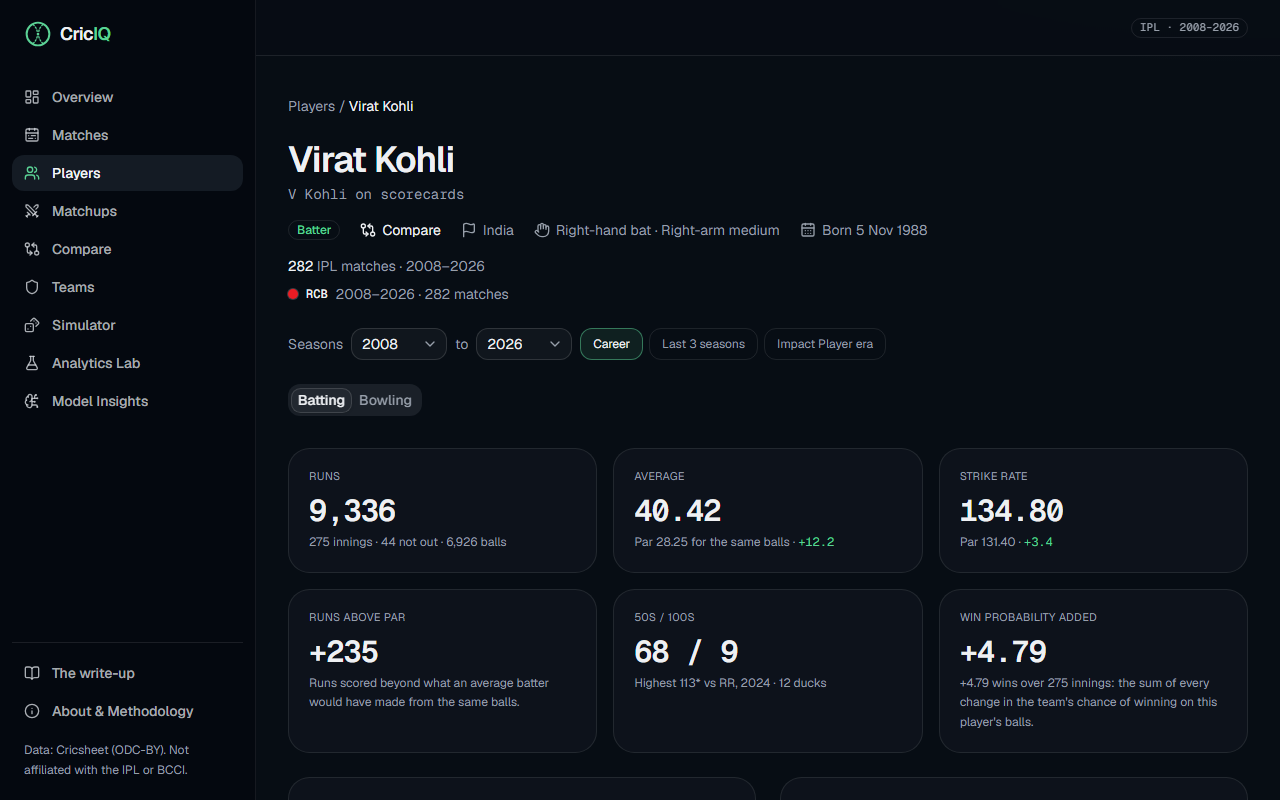
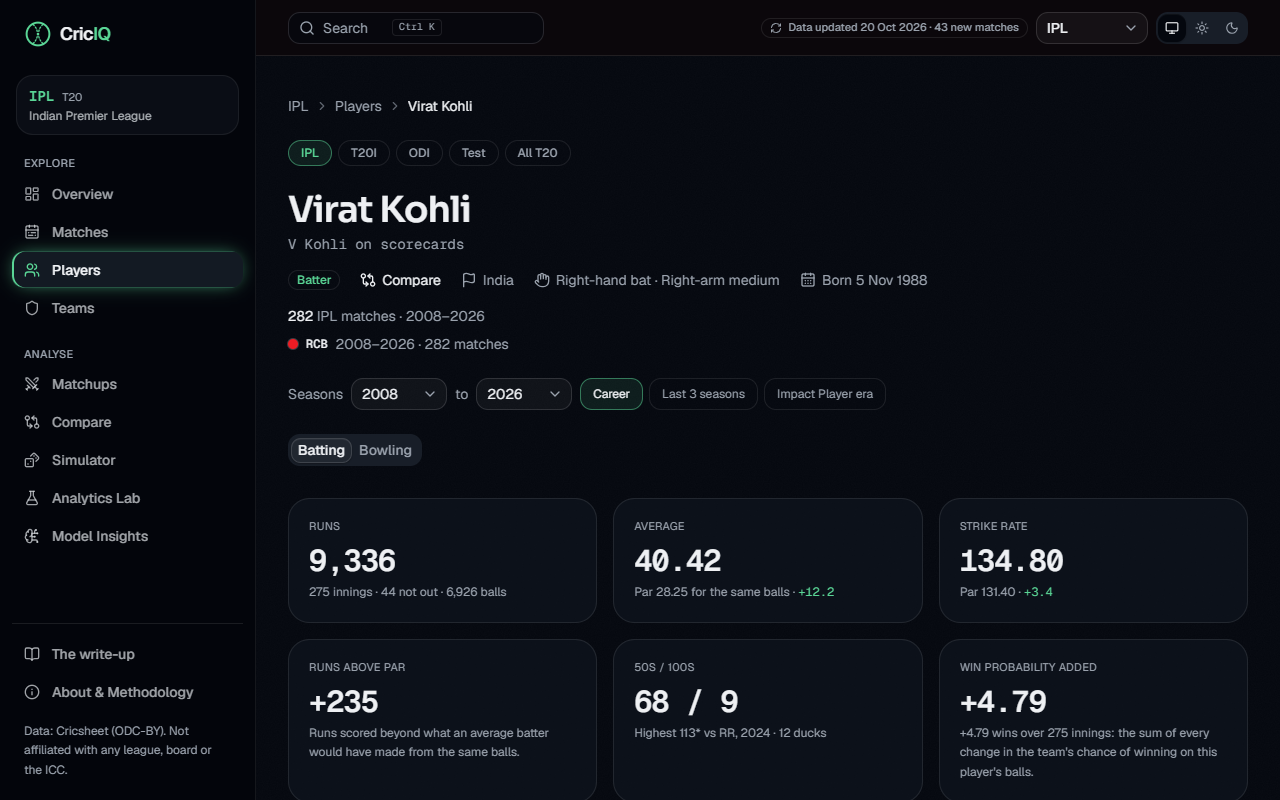
docs: update readme and changelog for the v4 experience
New screenshots of the scroll-story home page, a competition home, the
replay, the Player Lab, the simulator and Model Insights in the
redesigned interface. The README points at the v3 branch to run it and
explains the editions; the changelog covers the home page story, the
motion across the site and the work to keep it light.

diff --git a/CHANGELOG.md b/CHANGELOG.md
@@ -5,6 +5,35 @@ All notable changes to this project are documented here. The format follows [Kee
 ## [Unreleased]
 
 ### Added
+- **The home page's scroll story, and motion across the site.**
+  - The home page tells what CricIQ does as you scroll, in five chapters over a canvas of about
+    3,000 particles (900 on phones): a cricket ball with its seam, which breaks into a cloud as
+    the real number of deliveries counts up (4,570,681 in this build), becomes the 2019 IPL
+    final's win-probability ribbon with Pollard's six and Malinga's final over marked, fans out
+    into simulated outcomes, and dissolves into the competition picker. GSAP ScrollTrigger pins
+    the chapters, SplitText reveals their headlines and Lenis smooths the scrolling, on this page
+    only. Visitors who prefer reduced motion get the same story as a still page, switched by CSS
+    before the first paint. `components/landing/`, `lib/canvas-particles.ts`, `lib/landing.ts`.
+  - Pages rise in on a spring curve when reached by a link; the sidebar's current-page pill
+    slides to the item under the pointer or keyboard focus; the top bar turns more solid and
+    gains a lit edge as the page scrolls (a scroll-driven animation, no script); the search
+    palette springs open and the competition switcher's cards arrive in turn.
+  - Competition homes: the headline numbers count up as they come into view, sections and cards
+    arrive one after another, the hero breathes with a slow glow and match cards light up under
+    the pointer. `CountUp`, `StaggerGrid`, `Reveal` and `lib/use-reveal.ts`.
+  - The match replay reads like a broadcast: the score's digits flip, the win-probability bar
+    glides on a spring and pulses faster as the pressure on the next ball rises, each new ball
+    slides into the feed with wickets, sixes and fours flashing, and wickets ring on the
+    timeline as the replay reaches them.
+  - Player Lab ratings grow along their 0–100 tracks, a new matchup springs in with its
+    next-ball odds counting up, two players to compare arrive from either side, league table
+    rows arrive in turn and the league trends draw themselves as they come into view.
+  - Themes refined: the dark "floodlit night" has a fine film grain and the light "day match"
+    warmer shadows; page and section headings arrive word by word; loading skeletons shimmer in
+    a wave; the 404 page has a ball knock the bails off (canvas, replayable).
+  - Nothing a visitor already sees animates when a page first loads (only content that arrives
+    later or scrolls into view does), and every animation calms to a fade or stops when the
+    device asks for reduced motion.
 - **V3-4: the match replay.**
   - Over by over: the Manhattan chart has a panel of its own, under the scoreboard.
   - The scoreboard (limited overs and Tests) has a header with the innings and the ball, both
@@ -57,6 +86,14 @@ All notable changes to this project are documented here. The format follows [Kee
 
 ### Changed
 - CI runs on the `v3` branch too.
+- Animation stays light. Most of it is CSS; GSAP and Lenis load only on the home page after it
+  has painted, and set the story up a chapter at a time; Motion loads only with the match replay,
+  so other pages start with about as much JavaScript as before. The particles draw their many
+  small points in batched fills rather than an image each (desktop frames from about 36 ms to
+  12 ms on a CPU slowed four times), and the Player Lab's charts load once the page is idle.
+  Lighthouse on mobile stays within a few points of the earlier build on every key page, with
+  accessibility, best practices and SEO at 100.
+- The README shows the redesigned interface: new screenshots, and `git clone -b v3` to run it.
 - The README is short: what CricIQ is, how to run it in three commands without extra tools, a
   troubleshooting table, headline results and how it is built. The detailed results moved to
   `docs/models.md`.

diff --git a/README.md b/README.md
@@ -13,7 +13,7 @@
 
 **[Run it on your machine](#run-it-on-your-machine)** · [Live demo (IPL edition)](https://criciq-eight.vercel.app) · [Write-up](https://criciq-eight.vercel.app/writeup) · [Models and results](docs/models.md)
 
-<img src="docs/images/demo.gif" alt="A tour of CricIQ: the last over of the 2019 IPL final replayed ball by ball with win probability, then the Player Lab, Matchups, Compare, Teams, the Match Simulator, the Analytics Lab and Model Insights" width="880">
+<img src="docs/images/landing.png" alt="CricIQ's home page: the headline 'Decode the game. Predict the next move.' beside a cricket ball drawn in particles, with the deliveries, matches and competitions in the data" width="880">
 
 </div>
 
@@ -25,8 +25,10 @@ matches and 4.6 million balls. Replay any match with a live, explained win proba
 every series and tournament, and explore players, rivalries, teams and simulations. Each kind of
 cricket has models trained on its own matches only.
 
-> **Two editions.** The [live demo](https://criciq-eight.vercel.app) is v1.0.0, the IPL edition
-> (branch `main`). **v2.0.0, every competition, is on the `v2` branch and runs on your machine.**
+> **Editions.** The [live demo](https://criciq-eight.vercel.app) is v1.0.0, the IPL edition
+> (branch `main`). **This branch, `v3`, has every competition with the redesigned, animated
+> interface, and runs on your machine.** v2.0.0 (branch `v2`) has the same competitions with the
+> earlier interface.
 
 ## Run it on your machine
 
@@ -44,7 +46,7 @@ cricket has models trained on its own matches only.
 ### 2. Download CricIQ and start it
 
 ```bash
-git clone -b v2 https://github.com/mehulp007/CricIQ.git
+git clone -b v3 https://github.com/mehulp007/CricIQ.git
 cd CricIQ
 uv run python scripts/v2_up.py
 ```
@@ -72,7 +74,7 @@ It starts in seconds, using the data already built. To add matches played since 
 | `npm.ps1 cannot be loaded because running scripts is disabled` | Run `npm.cmd install -g pnpm` instead |
 | `pnpm is not installed` or `Node.js is not installed` | Install it (step 1), then open a new terminal |
 | `port 3000` or `port 8000 is already in use` | CricIQ is already running in another window: use that one, or close it first |
-| `scripts/v2_up.py` does not exist | You have the IPL edition (`main`): run `git checkout v2` inside the folder |
+| `scripts/v2_up.py` does not exist | You have the IPL edition (`main`): run `git checkout v3` inside the folder |
 | The page does not open | Wait for `CricIQ is up`, then use http://localhost:3000 |
 
 ## What you can do
@@ -127,9 +129,11 @@ Full results, what failed and why: [docs/models.md](docs/models.md).
 
 ## Screenshots
 
-| Match replay | Player Lab |
+| The home page's story | A competition's home |
 |---|---|
-| ![Match Center with win probability during the 2019 final](docs/images/replay.png) | ![Virat Kohli's profile against par](docs/images/player.png) |
+| ![The 2019 IPL final's win probability drawn as a ribbon of particles, with Pollard's six and Malinga's final over marked](docs/images/ribbon.png) | ![The IPL home page: its headline, the way into a replay, players and matchups, and its numbers](docs/images/home.png) |
+| **Match replay** | **Player Lab** |
+| ![The 2019 final with Chennai Super Kings needing 9 from 6 balls: the scoreboard, a 78% win chance and very high pressure on the next ball](docs/images/replay.png) | ![Virat Kohli's IPL career against par](docs/images/player.png) |
 | **Match Simulator** | **Model Insights** |
 | ![Mumbai Indians against Chennai Super Kings simulated 10,000 times](docs/images/simulator.png) | ![Model Insights overview: every model against its baseline on the 2025–2026 seasons](docs/images/models.png) |
 
